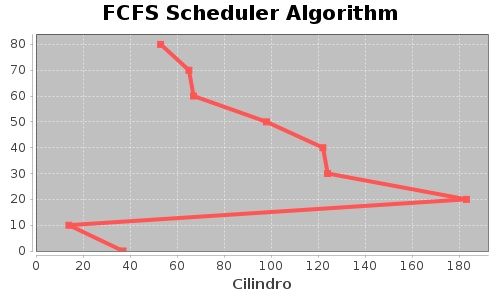
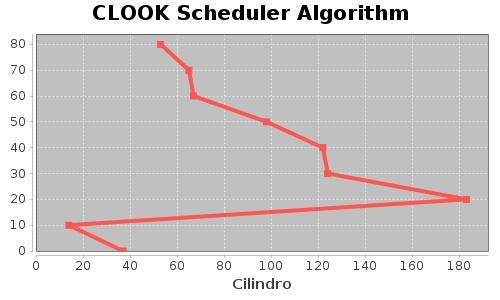
look feito

Changed region(s): [[0.18, 0.0, 0.84, 0.09]]

diff --git a/src/tp2/LOOK.java b/src/tp2/LOOK.java
@@ -18,6 +18,8 @@ import org.jfree.chart.renderer.xy.XYLineAndShapeRenderer;
 import java.io.File;
 import java.io.IOException;
 import static java.lang.Math.abs;
+import java.util.ArrayList;
+import java.util.Collections;
 import java.util.logging.Level;
 import java.util.logging.Logger;
 
@@ -31,6 +33,31 @@ public class LOOK implements DiskScheduler{
         this.requestString = requestString;
         this.numCilindros = numCilindros;
         this.initCilindro = initCilindro;
+        
+        ArrayList<Integer> vetor = new ArrayList<>();
+        
+        for (int i = 0; i < requestString.length; i++) {
+            vetor.add(this.requestString[i]);
+        }
+        
+        
+        vetor.add(initCilindro);
+        Collections.sort(vetor);
+
+        int split = vetor.indexOf(initCilindro);
+        vetor.remove(split);
+        ArrayList<Integer> menor = new ArrayList<>(vetor.subList(0, split));
+        ArrayList<Integer> maior = new ArrayList<>(vetor.subList(split, vetor.size()));
+        
+        this.requestString = new int[menor.size()+maior.size()];
+        
+        for (int i = 0; i < maior.size(); i++) {
+            this.requestString[i] = maior.get(i);
+        }
+        for (int i = 0; i < menor.size(); i++) {
+            this.requestString[maior.size() + i] = menor.get(menor.size()-i-1);
+        }
+        
     }
 
     @Override
@@ -56,7 +83,7 @@ public class LOOK implements DiskScheduler{
         int i;
         int y_axis = requestString.length * 10;
         
-        XYSeries series = new XYSeries("FCFS");
+        XYSeries series = new XYSeries("LOOK");
         
         /* Adiciona o pontos XY do gráfico de linhas. */
         series.add(y_axis, initCilindro);
@@ -72,7 +99,7 @@ public class LOOK implements DiskScheduler{
         /* Gera o gráfico de linhas */
         JFreeChart chart = ChartFactory.createXYLineChart(
             /* Title */
-            "FCFS Scheduler Algorithm",
+            "LOOK Scheduler Algorithm",
             /* Title x*/
             "",
             /* Title y */

diff --git a/src/tp2/TP2.java b/src/tp2/TP2.java
@@ -33,7 +33,9 @@ public class TP2 {
         System.out.println("Número de cilindros percorridos clook: " + clook.serviceRequests());
         clook.printGraph("clook.jpg");
         
-        
+        DiskScheduler look = new LOOK(requestString, numCilindros, initCilindro);
+        System.out.println("Número de cilindros percorridos look: " + look.serviceRequests());
+        look.printGraph("look.jpg");
         
    }
     
